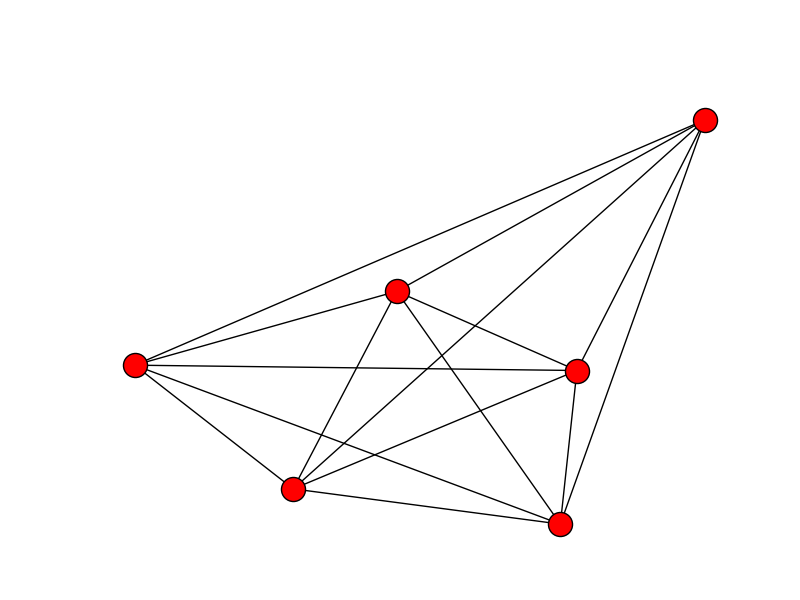
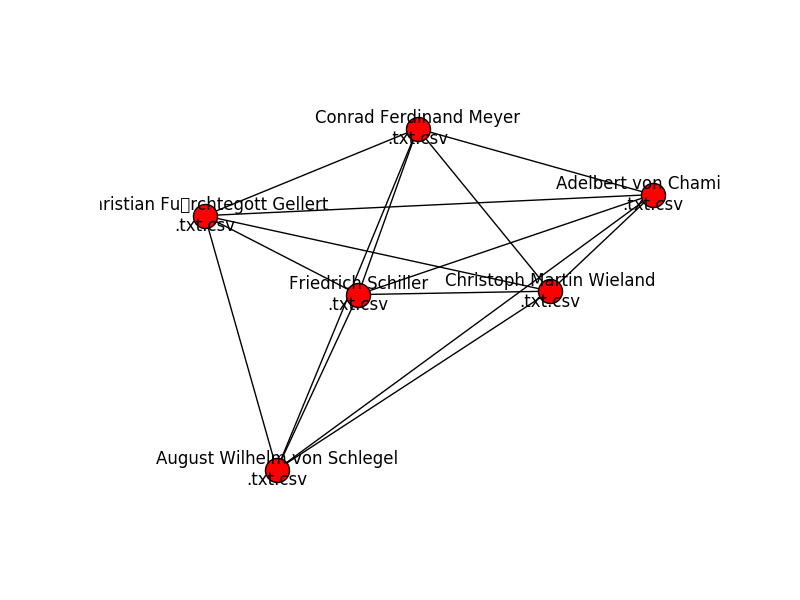
failed to trim paths to a single name using regex, went for str.split instead

diff --git a/readCSVfromScratch.py b/readCSVfromScratch.py
@@ -30,6 +30,7 @@ import glob
 import os
 import networkx as nx
 import matplotlib.pyplot as plt
+import re
 '''
 with open ('/Users/MHuber/Documents/Dariah/dariah-dkpro-wrapper-0.4.2/Abraham.csv', encoding='utf-8') as csvfile:
     readCSV = csv.reader(csvfile, delimiter='\t')
@@ -77,7 +78,7 @@ def compareNECounter(nedict1,nedict2):
 
 
 def createGraph():
-    
+    #regex =
     G=nx.Graph()
     fileList=glob.glob('/Users/MHuber/Documents/Dariah/dkproExample/testout/*')
     
@@ -88,10 +89,19 @@ def createGraph():
     #adding edges without nodes results in nx adding nodes automatically
     #G.add_nodes_from(fileList)#is it possible to add a list of strings as nodes?
     for a,b in itertools.combinations(fileList,2):
-        print(a, b)
+        #print (a)
+        #astr = re.search("Christoph",a)#depends on directory... not sure how to implement
+        #bstr = re.search("(?=testout\/).*(?=\.txt\.csv)",b)
+        #astr = astr.group(0)
+        #bstr = bstr.group(0)
+        aList = a.split('/')
+        bList = b.split('/')
+        aName = aList[-1]
+        bName = bList[-1]
+
         weight = compareNECounter(neCount(a), neCount(b))
         if weight > 0:
-            G.add_edge(a, b, {'weight': weight})
+            G.add_edge(aName, bName, {'weight': weight})
             #create edges a->b (weight)
     
     print ("Number of nodes:", G.number_of_nodes(), "  Number of edges: ", G.number_of_edges())
@@ -99,6 +109,7 @@ def createGraph():
     
           
 #neCount("/Users/MHuber/Documents/Dariah/dariah-dkpro-wrapper-0.4.2/Abraham.csv")
-nx.draw(createGraph())
+nx.draw_networkx(createGraph(), with_labels=True)
+plt.axis('off')
 plt.savefig("graph.png")
 
